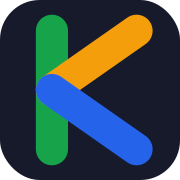
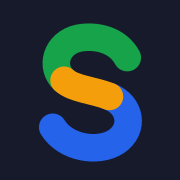
Add files via upload

diff --git a/Home.tsx b/Home.tsx
@@ -1,5 +1,6 @@
 
 
+import BrandMark from '../components/BrandMark';
 import React, { useState, useEffect } from 'react';
 import { ShoppingBag, Wrench, Truck, Store, Bike, Search, MapPin, Bell, X, Star, Crown, Briefcase, Loader2, CheckCircle, ShieldCheck } from 'lucide-react';
 import { AppSection, UserRole, User as UserType, Announcement, Product } from '../types';
@@ -25,6 +26,7 @@ const Home: React.FC<HomeProps> = ({ setSection, user, setAuthIntent, refreshUse
   const [heroIndex, setHeroIndex] = useState(0);
 
   const heroMessages = [
+    "Got something to sell? Sell am here.",
     "Find trusted artisans near you, in minutes.",
     "Order quality products from local vendors.",
     "Send and track packages across your city."
@@ -124,13 +126,7 @@ const Home: React.FC<HomeProps> = ({ setSection, user, setAuthIntent, refreshUse
         <div className="relative z-10">
           <div className="flex items-center gap-3 mb-8">
              <div className="bg-white p-2 rounded-2xl shadow-xl transform -rotate-6">
-                <svg viewBox="0 0 200 200" className="w-[22px] h-[22px]">
-                  <g strokeLinecap="round" fill="none">
-                    <path d="M 55 30 L 55 170" stroke="#16A34A" strokeWidth="38"/>
-                    <path d="M 55 100 L 155 30" stroke="#F59E0B" strokeWidth="38"/>
-                    <path d="M 55 100 L 155 170" stroke="#2563EB" strokeWidth="38"/>
-                  </g>
-                </svg>
+                <BrandMark className="w-[22px] h-[22px]" />
              </div>
              <span className="font-display text-lg font-bold tracking-tight">{BRAND.name}</span>
           </div>

diff --git a/ScopeChip.tsx b/ScopeChip.tsx
@@ -1,4 +1,5 @@
 import React, { useEffect, useState } from 'react';
+import { createPortal } from 'react-dom';
 import { MapPin, ChevronDown, Check } from 'lucide-react';
 import { Sheet } from './ui';
 import { api } from '../services/data';
@@ -57,6 +58,9 @@ const ScopeChip: React.FC<ScopeChipProps> = ({ user, tone = 'light', className =
         <span className="truncate">{browse.label}</span>
         <ChevronDown size={14} className="text-gray-500 shrink-0 ml-auto" />
       </button>
+      {/* Portalled to <body>: the chip sits inside layered hero/card sections whose
+          stacking context would otherwise trap the sheet under the bottom nav. */}
+      {open && createPortal(
       <Sheet isOpen={open} onClose={() => setOpen(false)} title="Where are you shopping?">
         <p className="text-xs text-gray-500 font-medium mb-4">
           Rider delivery works inside one city. Anywhere else, you can arrange pickup with the seller.
@@ -77,7 +81,8 @@ const ScopeChip: React.FC<ScopeChipProps> = ({ user, tone = 'light', className =
         {myCity && !myCity.isLive && (
           <p className="mt-4 text-xs text-gray-500 font-medium">We're not live in {myCity.name} yet. We'll let you know when it opens.</p>
         )}
-      </Sheet>
+      </Sheet>,
+      document.body)}
     </>
   );
 };

diff --git a/App.tsx b/App.tsx
@@ -1,5 +1,6 @@
 
 
+import BrandMark from './components/BrandMark';
 import React, { useState, useEffect, useCallback, useRef, Suspense } from 'react';
 import { Home as HomeIcon, ShoppingBag, Wrench, Truck, User, Loader2, X } from 'lucide-react';
 import { AppSection, UserRole, CartItem, User as UserType } from './types';
@@ -204,13 +205,7 @@ function App() {
     return (
       <div className="min-h-screen bg-white flex flex-col items-center justify-center">
          <div className="w-16 h-16 bg-kubwa-ink rounded-3xl animate-bounce flex items-center justify-center shadow-xl p-3.5">
-            <svg viewBox="0 0 200 200" className="w-full h-full">
-              <g stroke="currentColor" strokeLinecap="round" fill="none">
-                <path d="M 55 30 L 55 170" stroke="#16A34A" strokeWidth="38"/>
-                <path d="M 55 100 L 155 30" stroke="#F59E0B" strokeWidth="38"/>
-                <path d="M 55 100 L 155 170" stroke="#2563EB" strokeWidth="38"/>
-              </g>
-            </svg>
+            <BrandMark className="w-full h-full" />
          </div>
          <p className="mt-6 text-xs font-bold text-gray-500">Syncing app state...</p>
       </div>

diff --git a/payments.ts b/payments.ts
@@ -62,7 +62,7 @@ export const PaymentService = {
           email: params.user.email,
           amount: Math.round(params.total * 100),
           currency: 'NGN',
-          ref: `KC-ORDER-${Date.now()}-${Math.floor(Math.random() * 1000000)}`,
+          ref: `SAH-ORDER-${Date.now()}-${Math.floor(Math.random() * 1000000)}`,
           callback: (response: any) => {
             resolve({ success: true, reference: response.reference });
           },
@@ -125,7 +125,7 @@ export const PaymentService = {
           email: user.email,
           amount: amount * 100, // Paystack expects kobo
           currency: 'NGN',
-          ref: `KC-${intent}-${Date.now()}-${Math.floor(Math.random() * 1000000)}`,
+          ref: `SAH-${intent}-${Date.now()}-${Math.floor(Math.random() * 1000000)}`,
           metadata: {
             custom_fields: [
               { display_name: "Payment Intent", variable_name: "intent", value: intent },

diff --git a/index.html b/index.html
@@ -3,7 +3,12 @@
   <head>
     <meta charset="UTF-8" />
     <meta name="viewport" content="width=device-width, initial-scale=1.0" />
-    <title>Kubwa Connect - Shop. Fix. Deliver.</title>
+    <title>Sell Am Here | Buy, sell and get it done near you</title>
+    <meta name="description" content="Sell Am Here: shop from local vendors, hire trusted artisans and send packages across your city, anywhere in Nigeria.">
+    <meta name="theme-color" content="#161A2B">
+    <meta property="og:title" content="Sell Am Here">
+    <meta property="og:description" content="Buy, sell and get it done near you, anywhere in Nigeria.">
+    <meta property="og:url" content="https://sellamhere.com">
     <link rel="icon" type="image/svg+xml" href="/favicon.svg">
     <link rel="icon" type="image/png" sizes="32x32" href="/favicon-32.png">
     <link rel="icon" type="image/png" sizes="16x16" href="/favicon-16.png">

diff --git a/BrandMark.tsx b/BrandMark.tsx
@@ -1,0 +1,18 @@
+import React from 'react';
+
+/**
+ * The Sell Am Here mark: one "S" drawn as three strokes in the category
+ * colours (Mart green, FixIt amber, Ride blue). Source files live in the
+ * brand kit; keep these paths in sync with public/favicon.svg.
+ */
+const BrandMark: React.FC<{ className?: string; title?: string }> = ({ className = 'w-6 h-6', title }) => (
+  <svg viewBox="0 0 200 200" className={className} role={title ? 'img' : undefined} aria-label={title} aria-hidden={title ? undefined : true}>
+    <g strokeLinecap="round" fill="none" strokeWidth="34">
+      <path d="M 124 108 C 150 118 156 148 132 164 C 110 178 70 172 54 146" stroke="#2563EB" />
+      <path d="M 146 60 C 134 38 108 32 86 36 C 58 42 50 72 68 88" stroke="#16A34A" />
+      <path d="M 68 88 C 80 99 104 100 124 108" stroke="#F59E0B" />
+    </g>
+  </svg>
+);
+
+export default BrandMark;

diff --git a/brand.ts b/brand.ts
@@ -4,9 +4,10 @@
  * in /public and the wordmark in index.html).
  */
 export const BRAND = {
-  name: 'Kubwa Connect',
-  tagline: 'Shop. Fix. Deliver.',
+  name: 'Sell Am Here',
+  domain: 'sellamhere.com',
+  tagline: 'Buy, sell and get it done near you.',
   country: 'Nigeria',
-  supportEmail: 'support@kubwaconnect.com',
-  partnersEmail: 'partners@kubwaconnect.com',
+  supportEmail: 'support@sellamhere.com',
+  partnersEmail: 'partners@sellamhere.com',
 } as const;

diff --git a/supabase.ts b/supabase.ts
@@ -2,7 +2,7 @@
 import { createClient } from '@supabase/supabase-js';
 
 /**
- * KUBWA CONNECT - SUPABASE CLIENT CONFIGURATION
+ * SELL AM HERE - SUPABASE CLIENT CONFIGURATION
  */
 
 const FALLBACK_URL = 'https://espbxsheydqoaeechgln.supabase.co';
